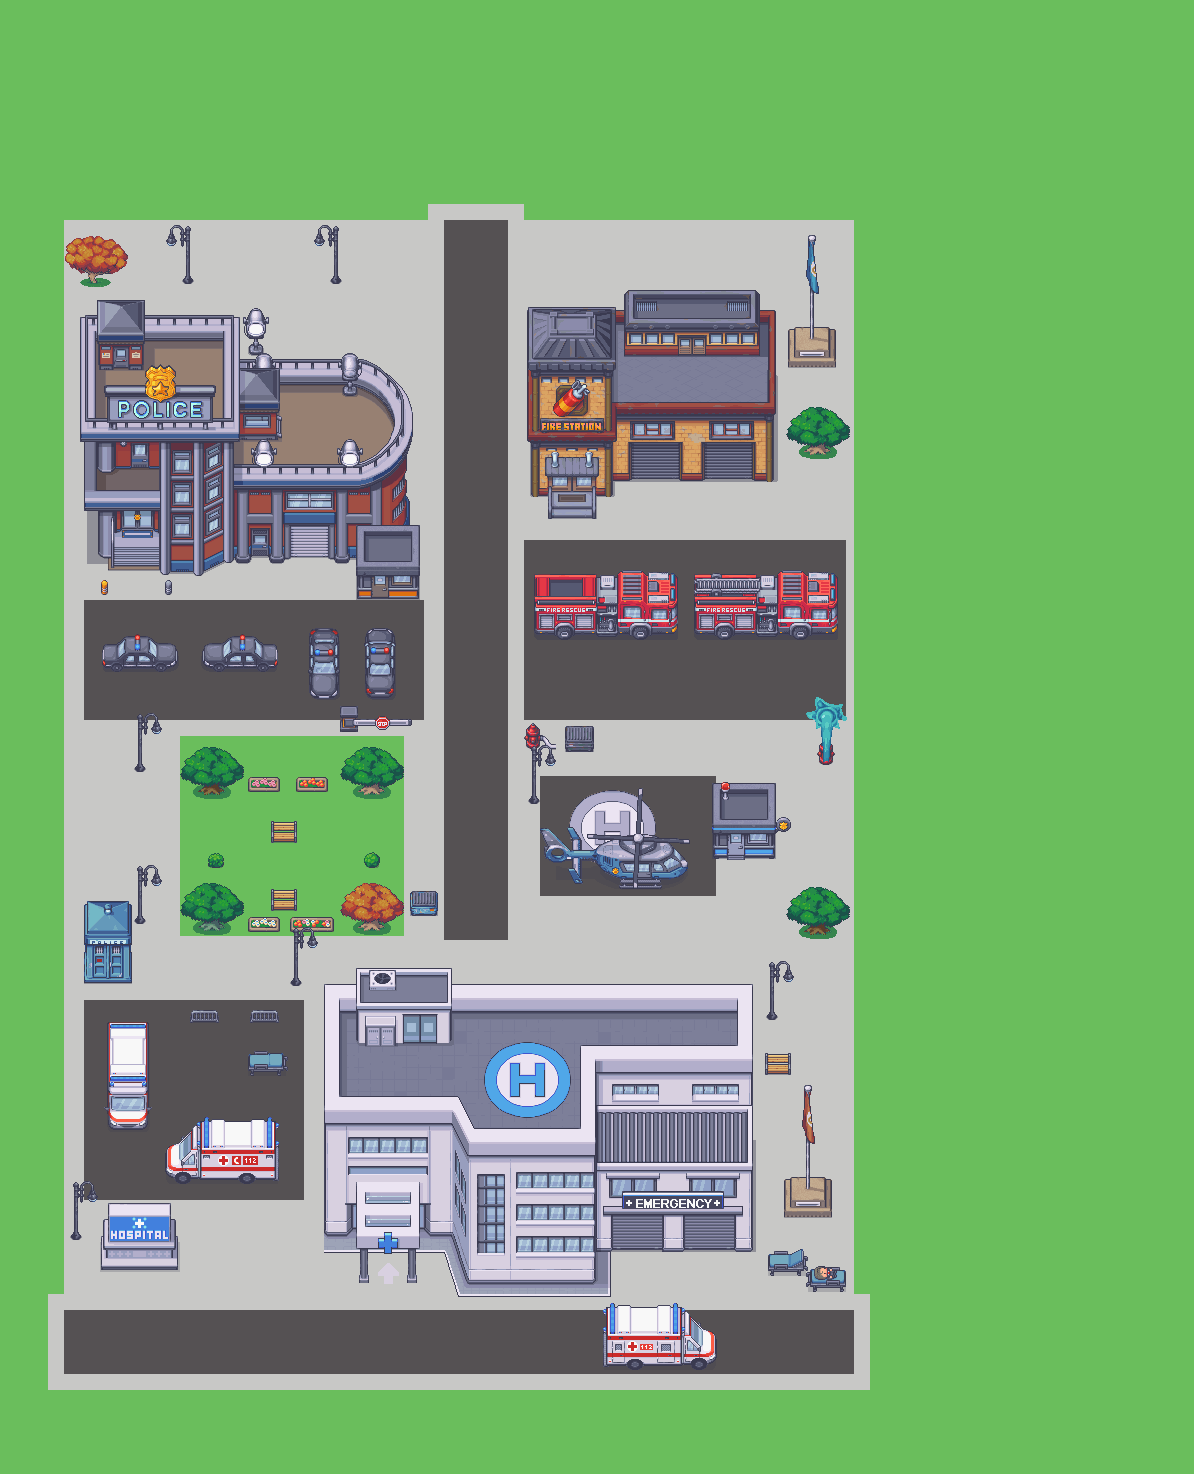
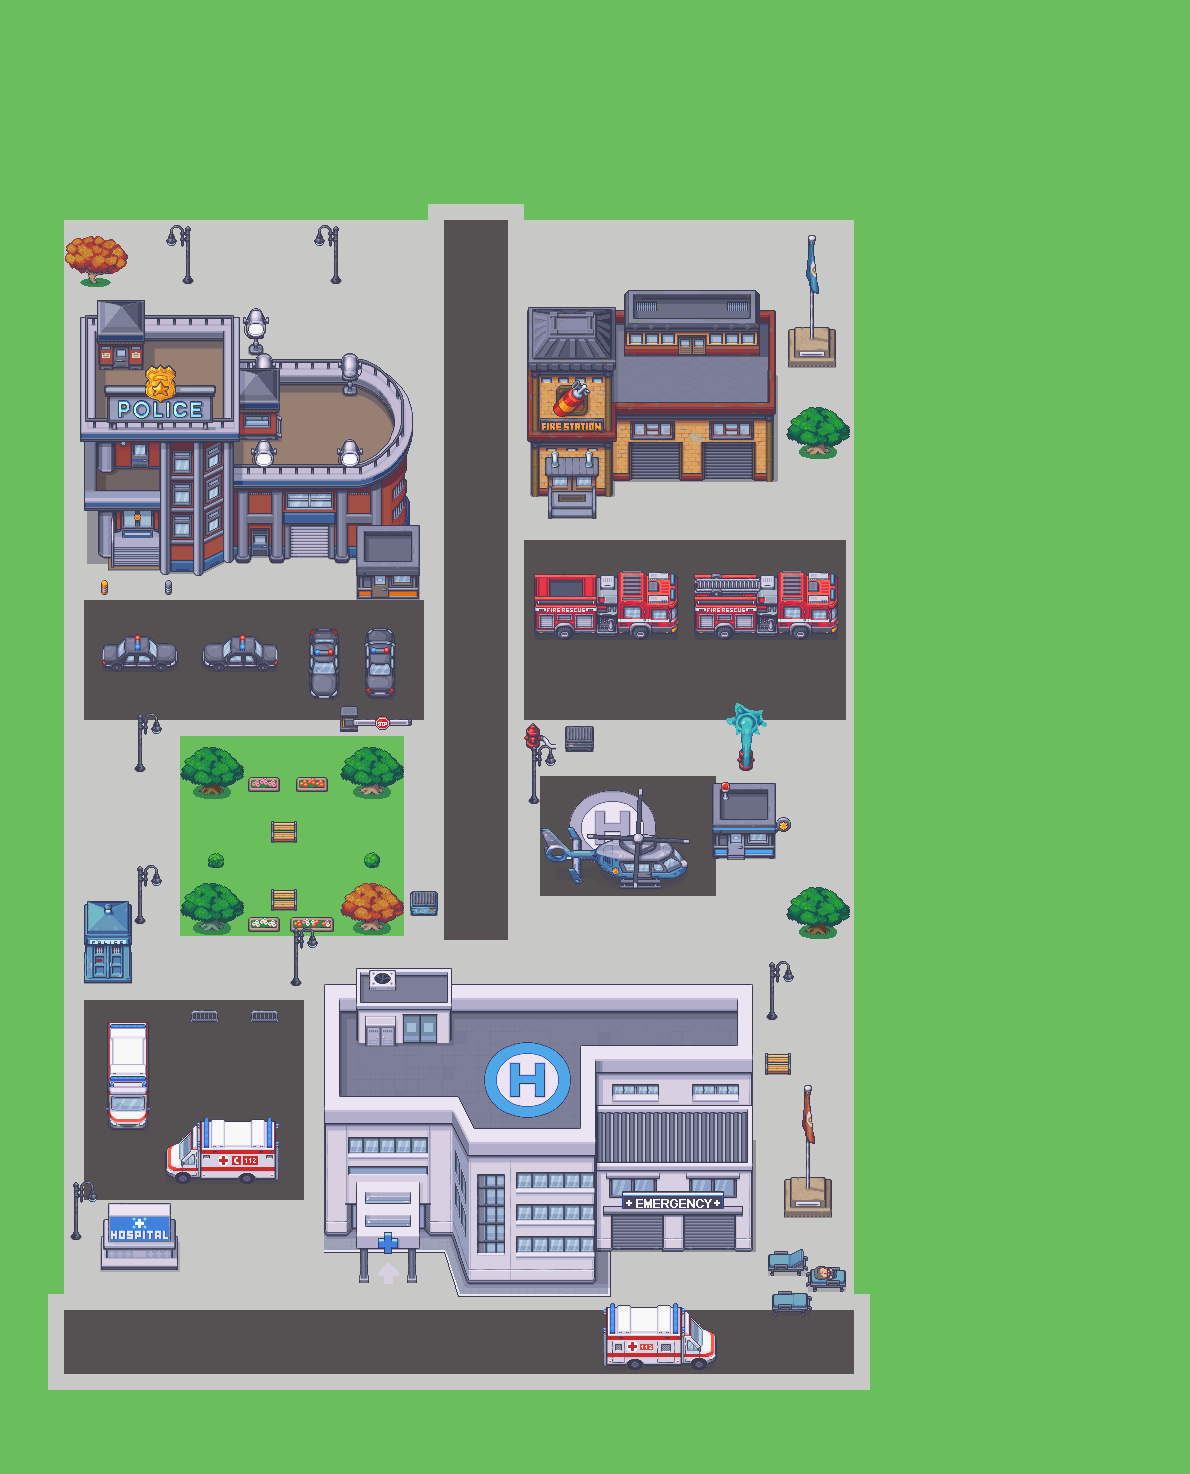
Placement-logic audit: fix 27 illogically-placed sprites across 14 districts
User asked whether each sprite is identified and placed LOGICALLY (not just
cut cleanly). Honest answer was no — so a 16-agent visual audit rendered
every district, compared to its itch.io reference, and judged placement
sense. Found + fixed 27 real errors, including:
- MISIDENTIFIED sprite: the farm "sacks" cut is actually a blue crystal/
  gem MINING node — removed from the farm (no logical home there)
- context errors: a "GARAGE SALES" sign in the food-truck market; a
  "CLOSED" sign on an open staffed grocery; a farm produce cart in a
  residential yard; a beach bar stranded inland on pavement
- physics/surface: lighthouse floating in open ocean; campfire on top of
  a shipping container; trash + barrels floating at rooftop height
- occlusion: both park basketball hoops hidden behind the court sprite
- blocking: HVAC units over the mall's front doors; a watch tower over a
  tent entrance
- stray props regrouped: lone graves into rows, luggage trolley into the
  baggage bay, orphan signposts/stretchers/poles removed or rehomed

New scripts/audit-placement-logic.py flags wall/roof/water-mount sprites
off their surface (roof+water now 0 misplaced). Stamps 1129->1121 (8
context-less props removed); overlaps 33->30, floating 3->2. Deployed.

diff --git a/denizen/scripts/audit-placement-logic.py b/denizen/scripts/audit-placement-logic.py
@@ -1,0 +1,132 @@
+#!/usr/bin/env python3
+"""Placement-logic audit — beyond "is the sprite cut right", checks whether
+each sprite is placed on its LOGICAL surface, from semantic role (inferred
+from the LimeZu filename) vs where it sits in the plan.
+
+Role rules (LimeZu naming is descriptive):
+  WALL_MOUNT  painting/frame/poster/clock/mirror/sign_hanging/whiteboard/
+              cork/diploma/cert/mona_lisa  -> must abut a building's face
+              (a solid building stamp within ~24px above its baseline)
+  ROOF        roof_/antenna/satellite/chimney/solar/vent/water_tank/
+              ac_unit/air_conditioner  -> must sit ON a building (overlapping
+              a building stamp), not on open ground
+  WATER       buoy/boat/ship/wave  -> must be on a water animBand/patch
+  Everything else: GROUND (must be on a patch/road — the FLOATING check
+  already covers grass-voids).
+
+Reports counts + the worst offenders. Advisory (exit 0) — placement is
+judgment-heavy, so this surfaces suspects for the visual agent pass.
+"""
+
+import json
+import os
+import sys
+
+from PIL import Image
+
+DEN = os.path.dirname(os.path.dirname(os.path.abspath(__file__)))
+ASSETS = os.path.join(DEN, "assets", "limezu")
+PLAN = os.path.join(DEN, "data", "city-plan.json")
+
+WALL_KW = ("painting", "_frame", "poster", "clock", "mirror", "sign_hanging",
+           "whiteboard", "cork", "diploma", "_cert", "mona_lisa", "wall_art",
+           "_sign_new", "hanging_sign", "billboard")
+ROOF_KW = ("roof_", "antenna", "satellite", "chimney", "solar", "_vent",
+           "water_tank", "ac_unit", "air_conditioner", "rooftop")
+WATER_KW = ("buoy", "_boat", "_ship", "sailboat")
+BUILDING_KW = ("building", "house", "hotel", "hospital", "mall", "market",
+               "store", "condo", "villa", "school", "station", "barn",
+               "hangar", "barrack", "chapel", "office", "chapel", "chapel")
+
+
+def role(img):
+    n = img.lower()
+    if any(k in n for k in WALL_KW):
+        return "WALL"
+    if any(k in n for k in ROOF_KW):
+        return "ROOF"
+    if any(k in n for k in WATER_KW):
+        return "WATER"
+    return "GROUND"
+
+
+def is_building(img):
+    return any(k in img.lower() for k in BUILDING_KW)
+
+
+def rect(s, dims):
+    p = os.path.join(ASSETS, s["img"].replace("/", os.sep))
+    if p not in dims:
+        try:
+            with Image.open(p) as im:
+                dims[p] = im.size
+        except Exception:
+            dims[p] = None
+    d = dims[p]
+    if not d:
+        return None
+    w, h = d
+    o = s.get("origin", "bl")
+    if o == "tl":
+        return (s["x"], s["y"], w, h)
+    if o == "bc":
+        return (s["x"] - w // 2, s["y"] - h, w, h)
+    return (s["x"], s["y"] - h, w, h)
+
+
+def overlaps(a, b):
+    return (a[0] < b[0] + b[2] and a[0] + a[2] > b[0]
+            and a[1] < b[1] + b[3] and a[1] + a[3] > b[1])
+
+
+def main():
+    plan = json.load(open(PLAN, encoding="utf-8"))
+    dims = {}
+    stamps = plan.get("stamps", [])
+    rects = [(s, rect(s, dims)) for s in stamps]
+    buildings = [(s, r) for s, r in rects if r and is_building(s["img"])]
+    water_zones = []
+    for b in plan.get("animBands", []):
+        water_zones.append((b["x"], b["y"], b["w"], b["h"]))
+    for p in plan.get("patches", []):
+        if p.get("tile") == "sand":  # beach sand — near water ok
+            water_zones.append((p["x"], p["y"], p["w"], p["h"]))
+
+    suspect = {"WALL": [], "ROOF": [], "WATER": []}
+    for s, r in rects:
+        if not r:
+            continue
+        role_ = role(s["img"])
+        if role_ == "GROUND":
+            continue
+        name = os.path.basename(s["img"])
+        if role_ == "ROOF":
+            on_bldg = any(overlaps(r, br) for bs, br in buildings if bs is not s)
+            if not on_bldg:
+                suspect["ROOF"].append((name, s["x"], s["y"]))
+        elif role_ == "WALL":
+            # wall item should have a building whose base is just below/at it
+            near = any(abs((br[1]) - (r[1] + r[3])) < 40 and br[0] - 40 < s["x"] < br[0] + br[2] + 40
+                       for bs, br in buildings if bs is not s)
+            # or overlapping a building (mounted on the face)
+            near = near or any(overlaps(r, br) for bs, br in buildings if bs is not s)
+            if not near:
+                suspect["WALL"].append((name, s["x"], s["y"]))
+        elif role_ == "WATER":
+            inw = any(zx <= s["x"] <= zx + zw and zy <= s["y"] <= zy + zh
+                      for zx, zy, zw, zh in water_zones)
+            if not inw:
+                suspect["WATER"].append((name, s["x"], s["y"]))
+
+    print(f"placement-logic audit of {len(stamps)} stamps:")
+    for role_, items in suspect.items():
+        print(f"  {role_:6s} misplaced: {len(items)}")
+        for name, x, y in items[:14]:
+            print(f"     {name[:46]:46s} @({x},{y})")
+        if len(items) > 14:
+            print(f"     ... +{len(items)-14} more")
+    return 0
+
+
+if __name__ == "__main__":
+    sys.exit(main())
